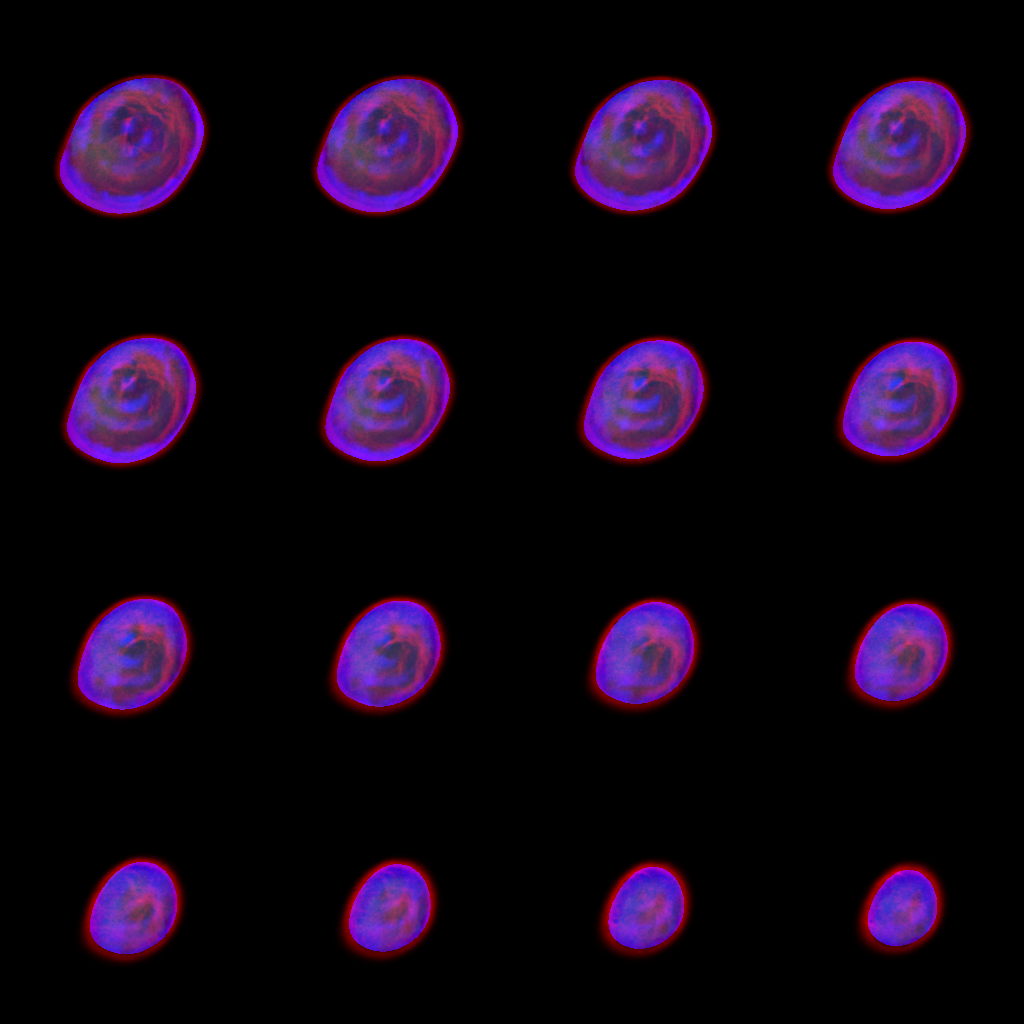
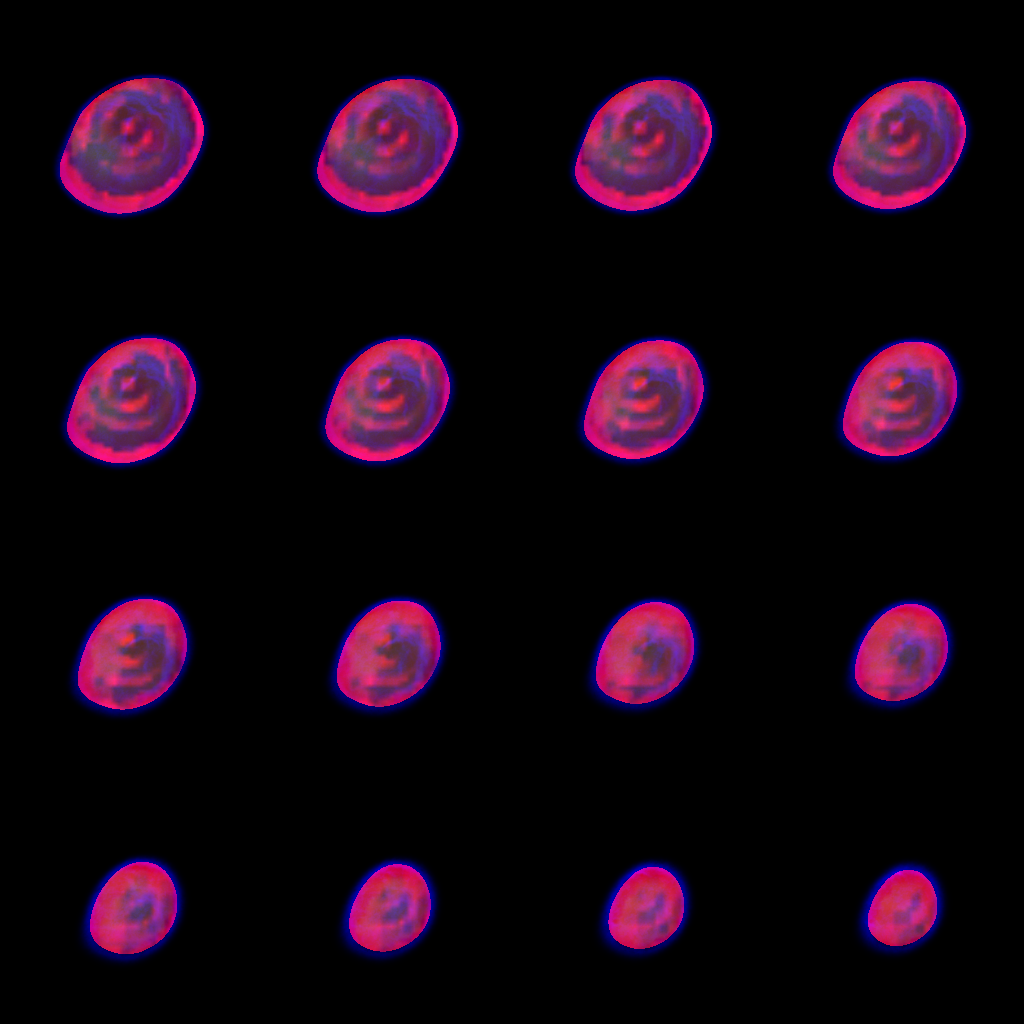
tomoraycaster for USCT V0.1
3 modalities data and modified gui

diff --git a/examples/breast2/index.html b/examples/breast2/index.html
@@ -24,26 +24,26 @@
 			config1 = {
 				"dom_container_id": "container",
 				"slicemaps_paths": [
-		    'Jena_P16_km3-OverlaysNew_oldTransm-reflXY_fused_4x4_1.png',
+		            'Jena_P16_km3-OverlaysNew_oldTransm-reflXY_fused_4x4_1.png',
                     'Jena_P16_km3-OverlaysNew_oldTransm-reflXY_fused_4x4_2.png',
                     'Jena_P16_km3-OverlaysNew_oldTransm-reflXY_fused_4x4_3.png',
                     'Jena_P16_km3-OverlaysNew_oldTransm-reflXY_fused_4x4_4.png',
                     'Jena_P16_km3-OverlaysNew_oldTransm-reflXY_fused_4x4_5.png',
                     'Jena_P16_km3-OverlaysNew_oldTransm-reflXY_fused_4x4_6.png',
                     'Jena_P16_km3-OverlaysNew_oldTransm-reflXY_fused_4x4_7.png',
-                    'Jena_P16_km3-OverlaysNew_oldTransm-reflXY_fused_4x4_7.png'
+                    'Jena_P16_km3-OverlaysNew_oldTransm-reflXY_fused_4x4_8.png',
 				],
 
-				"slices_range": [0, 256],
+				"slices_range": [0, 128],
 				"gray_min": 0.1,
-				"gray_max": 0.6,
+				"gray_max": 0.9,
 				"row_col": [4, 4],
 				"steps": 100,
 				"renderer_size": [512, 512],
-				"renderer_canvas_size": ['*', '*'],
-				"absorption_mode": 1,
-				"opacity_factor": 35,
-				"color_factor": 3,
+				"renderer_canvas_size": [512, 512],
+				"absorption_mode": 2,
+				"opacity_factor": 4,
+				"color_factor": 2,
 				"x_min": 0.0,
 				"x_max": 1.0,
 				"auto_steps": true,
@@ -51,8 +51,11 @@
 	                {"pos": 0.25,"color": "#7CFF79"},
 	                {"pos": 0.5, "color": "#FF9400"},
 	                {"pos": 1.0, "color": "#7F0000"},
-	            ]
-
+	            ],
+                "refl":0.5,
+                "sat" :1,
+                "sos" :1.3
+                
 			};
 
 			rcl2 = new VRC.VolumeRaycaster(config1);

diff --git a/examples/libs/dat.gui.helper.js b/examples/libs/dat.gui.helper.js
@@ -17,7 +17,11 @@ guiControls = new function() {
 	this.z_max = -1;
 	this.colormap = 13;
 	this.thresholding = 4;
-
+    
+    this.refl = 0.5
+    this.sos = 0.5
+    this.sat = 0.5
+    
 	this.auto_steps = -1;
 };
 
@@ -37,6 +41,9 @@ var UpdateGUI = function(config) {
 	guiControls.z_min = config["z_min"];
 	guiControls.z_max = config["z_max"];
 	guiControls.auto_steps = config["auto_steps"];
+    guiControls.refl = config["refl"];
+    guiControls.sat = config["sat"];
+    guiControls.sos = config["sos"];
 
 };
 
@@ -90,7 +97,7 @@ var InitGUI = function(config, rcl2) {
 		rcl2.setAutoStepsOn(value);
 	});
 
-	var absorbtion_mode_controller = gui.add(guiControls, 'absorption_mode', {"MIPS": 0, "X-ray": 1, "Maximum projection intensivity": 2}).listen();
+	var absorbtion_mode_controller = gui.add(guiControls, 'absorption_mode', {"Tumor Cutoff": 0, "Refl+Sos": 1, "Real Body": 2}).listen();
 	absorbtion_mode_controller.onChange(function(value) {
 		rcl2.setAbsorptionMode(value);
 	});
@@ -114,6 +121,22 @@ var InitGUI = function(config, rcl2) {
 	gray_max_controller.onChange(function(value) {
 		rcl2.setGrayMaxValue(value);
 	});
+    
+    var refl = gui.add(guiControls, 'refl', 0, 2, 0.1).listen();
+	refl.onChange(function(value) {
+		rcl2.setRefl(value);
+	});
+    
+    var sos = gui.add(guiControls, 'sos', 0, 2, 0.1).listen();
+	sos.onChange(function(value) {
+		rcl2.setSos(value);
+	});
+
+    var sat = gui.add(guiControls, 'sat', 0, 2, 0.1).listen();
+	sat.onChange(function(value) {
+		rcl2.setSat(value);
+	});
+
 
 	var render_size_controller = gui.add(guiControls, 'render_size', {"128": 0, "256": 1, "512": 2, "768": 3, "1024": 4, "2048": 5, "4096": 6, "*": 7, "default": 8}, 8);
 	render_size_controller.onFinishChange(function(value) {
